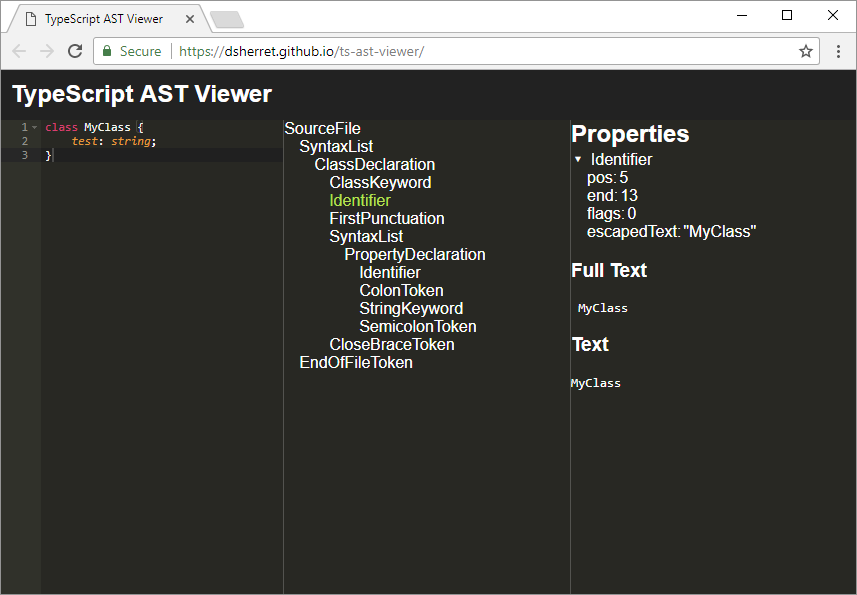
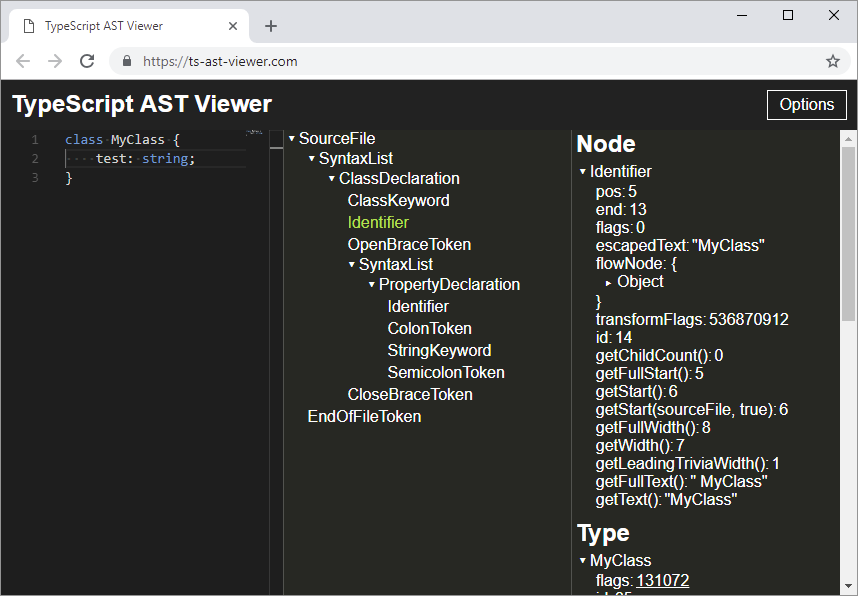
docs: Update ts-ast-viewer docs.

diff --git a/docs/setup/ast-viewers.md b/docs/setup/ast-viewers.md
@@ -14,12 +14,14 @@ I've created this very basic web-based TypeScript AST viewer.
 
 Features:
 
-* View code on left, tree in middle, and selected node's properties on right.
-* Select a node in the tree to focus on that node's properties.
+* View code on left, tree in middle, and information about selected node on right.
+* View the type and symbol of the selected node.
+* Toggle the tree between `node.forEachChild(...)` and `node.getChildren()`.
+* Change compiler API versions.
 
 [![TypeScript AST Viewer](images/ts-ast-viewer.png)](http://ts-ast-viewer.com)
 
-I will improve and add more functionality to this in the future, but for now it will give you a good understanding of the tree.
+I will improve and add more functionality to this in the future. You can help contribute to its progress [here](https://github.com/dsherret/ts-ast-viewer).
 
 ### Atom TypeScript
 
